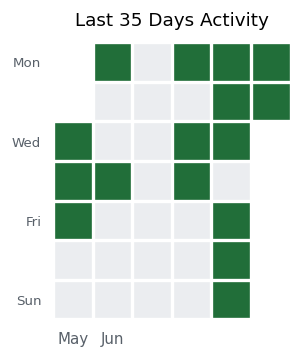
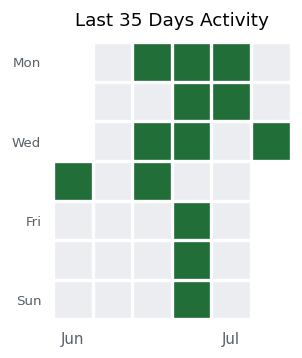
Lab Entry: 2026-07-08

diff --git a/README.md b/README.md
@@ -1,7 +1,7 @@
-# 🏃 平均週 2.7 回でつーがく中！
+# 🏃 平均週 2.5 回でつーがく中！
 <p align="center">
   <img src="./monthly_report.png" alt="Attendance Calendar">
 </p>
 
 ___
-*最終更新: 2026-06-30*
+*最終更新: 2026-07-08*
